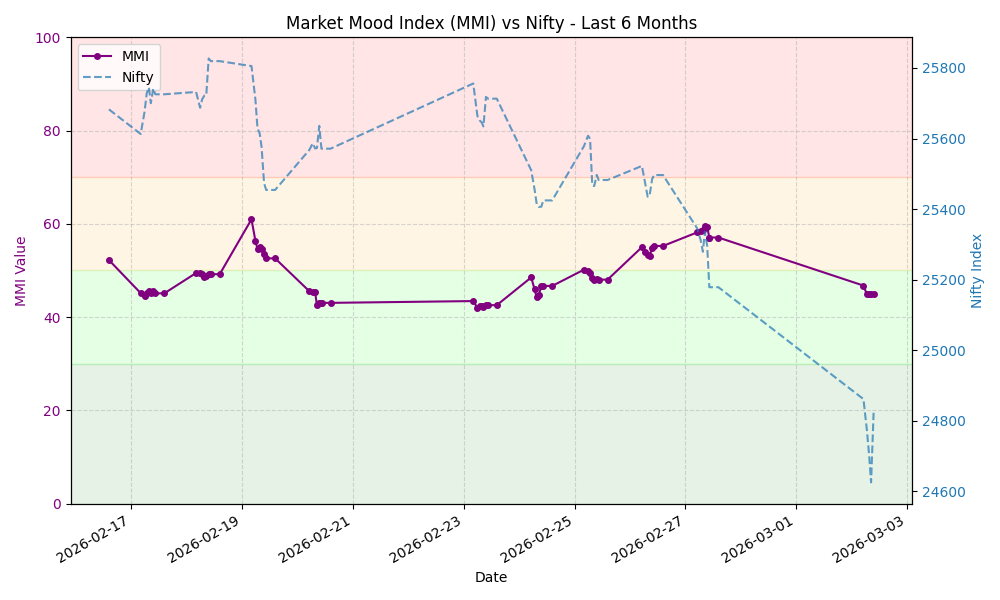
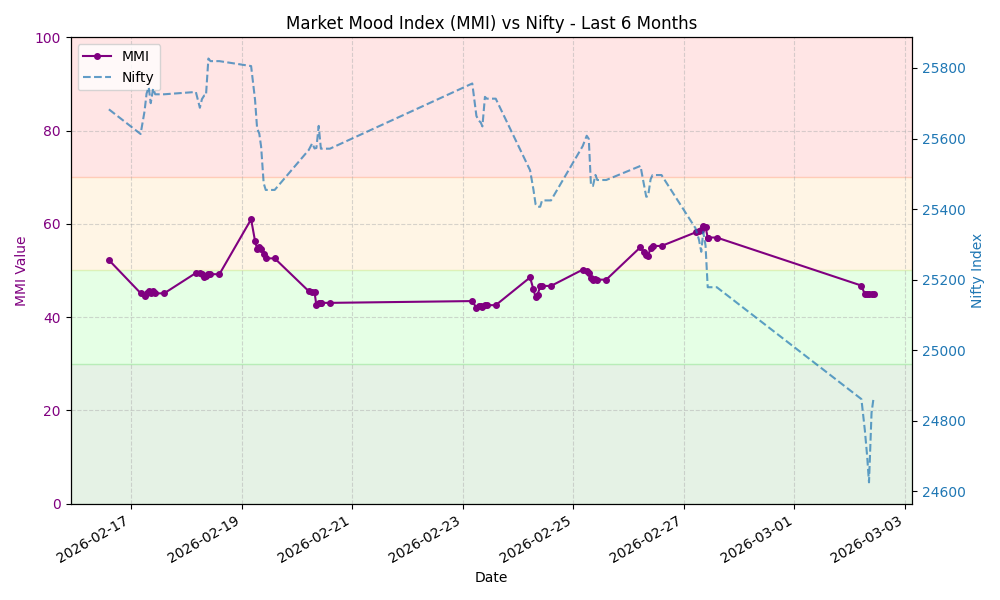
Update MMI data and chart

diff --git a/README.md b/README.md
@@ -7,8 +7,8 @@ This repository automatically fetches the MMI value, stores the history, and gen
 
 ## Latest MMI Value
 
-**44.92** - **Fear**
-<small>Last Updated: 2026-03-02 09:33 UTC</small>
+**44.87** - **Fear**
+<small>Last Updated: 2026-03-02 10:27 UTC</small>
 
 ## MMI Trend (Last 30 Days)
 
